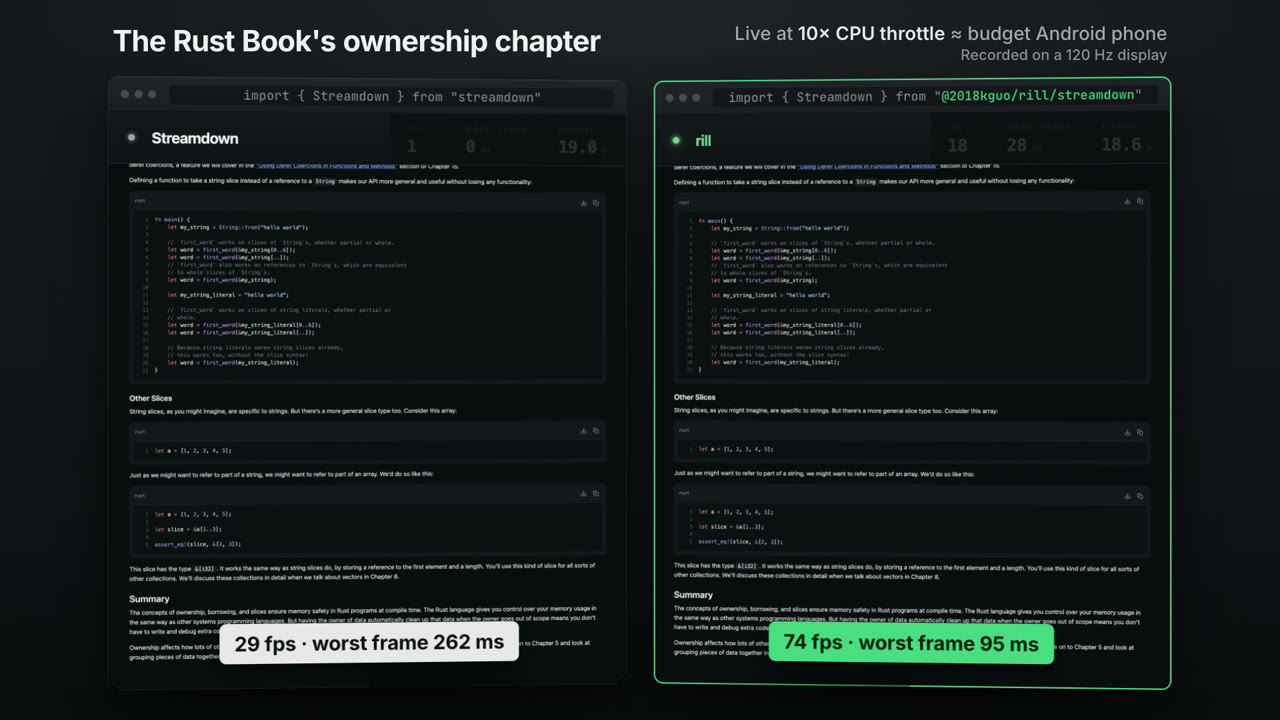
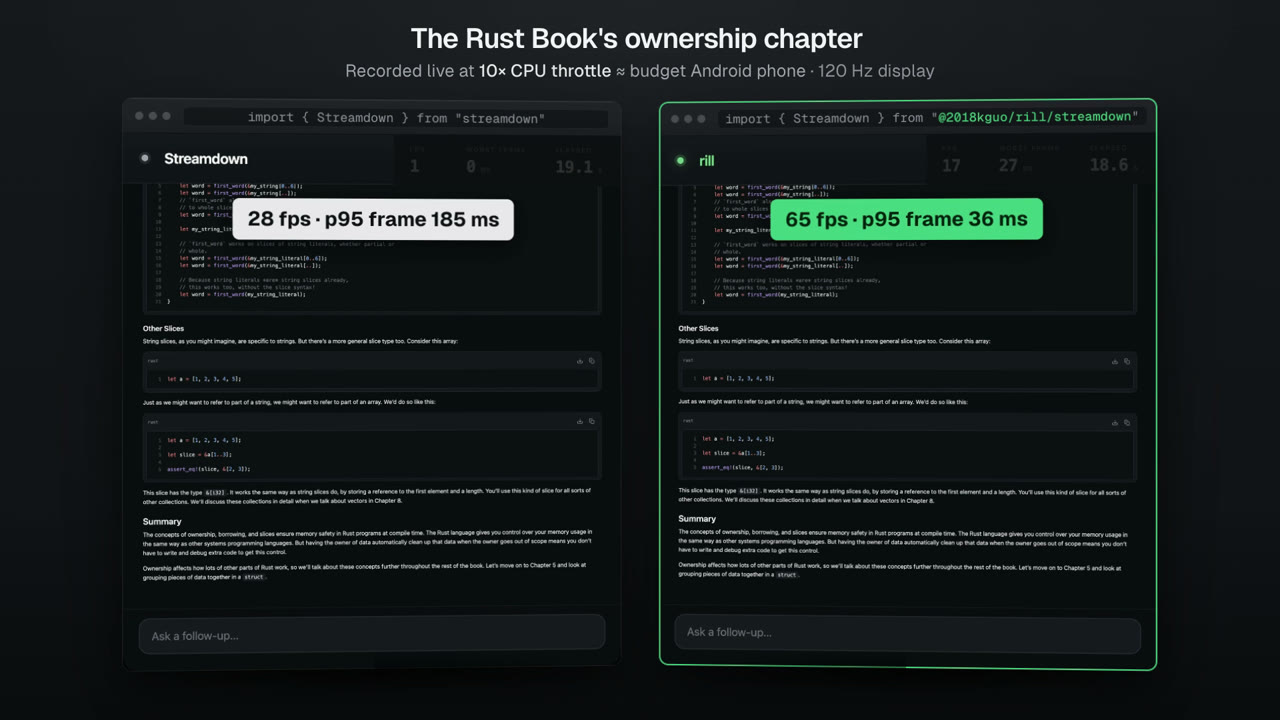
README: the final film's poster and frame-rate figures

diff --git a/README.md b/README.md
@@ -8,7 +8,7 @@ renders the same page, down to every class, attribute and text node, with most o
 work moved into Rust and WebAssembly. On a throttled phone, a long chat opens 4.7× sooner
 and answers stream at full frame rate instead of stuttering.
 
-[![Streamdown and rill streaming the Rust Book's ownership chapter side by side at 10× CPU throttle: 29 fps vs 74 fps](docs/rill-0.2.jpg)](https://github.com/2018kguo/rill/releases/tag/v0.2.0)
+[![Streamdown and rill streaming the Rust Book's ownership chapter side by side at 10× CPU throttle: 28 fps vs 65 fps](docs/rill-0.2.jpg)](https://github.com/2018kguo/rill/releases/tag/v0.2.0)
 
 *The launch film (70 s, real recordings): [watch it on the release page](https://github.com/2018kguo/rill/releases/tag/v0.2.0).*
 
@@ -104,8 +104,8 @@ Android phone); every number is a median of trace-based runs, Streamdown 2.7.1 v
 Layout and paint are the same on both sides (it's the same DOM), so "finished sooner" is
 bounded by what the browser itself spends; "less JS + GC" is rill's own share. Streaming at
 a realistic 2,000–3,000 characters a second, recorded live at 10× throttle, Streamdown
-drops to 15–29 fps with frames up to 262 ms; rill holds 63–74 fps with its worst frame
-under 100 ms on the chapter.
+averages 15–28 fps with 95th-percentile frames of 155–185 ms; rill averages 60–65 fps
+with 95th-percentile frames of 26–36 ms.
 
 The Markdown pipeline alone (remark, rehype, sanitize, harden, Streamdown's plugins) is a
 smaller tier of the same story:
